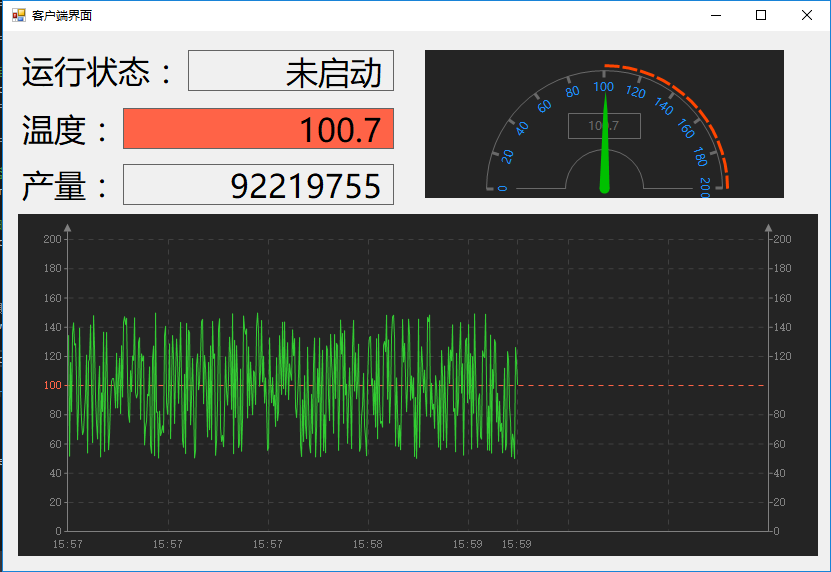
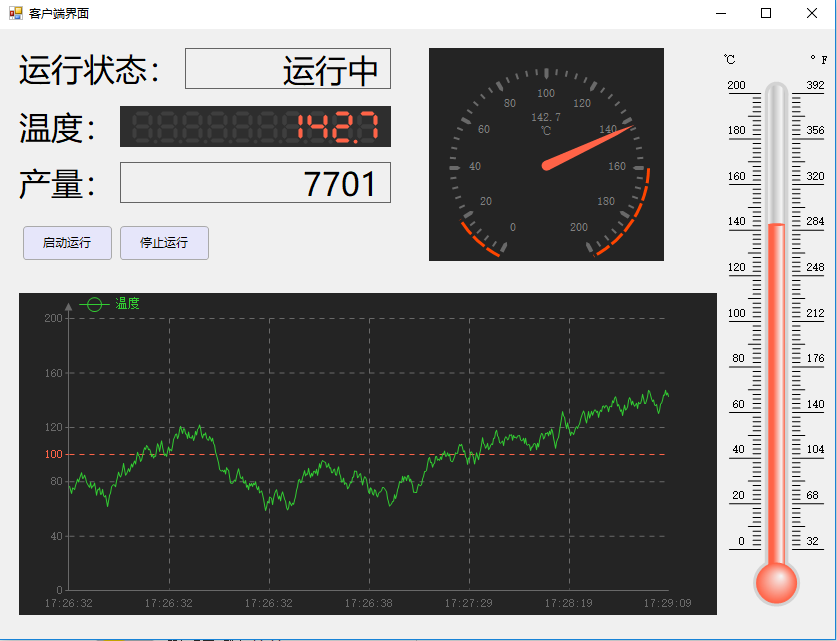
feat(nuget): 更新nuget包，升级控件组件。将作为hsl的进阶教程。

diff --git a/Client/FormClient.Designer.cs b/Client/FormClient.Designer.cs
@@ -32,12 +32,13 @@
             this.label6 = new System.Windows.Forms.Label();
             this.label3 = new System.Windows.Forms.Label();
             this.label4 = new System.Windows.Forms.Label();
-            this.label2 = new System.Windows.Forms.Label();
             this.label1 = new System.Windows.Forms.Label();
-            this.userCurve1 = new HslCommunication.Controls.UserCurve();
-            this.userGaugeChart1 = new HslCommunication.Controls.UserGaugeChart();
             this.userButton3 = new HslCommunication.Controls.UserButton();
             this.userButton2 = new HslCommunication.Controls.UserButton();
+            this.hslCurve1 = new HslControls.HslCurve();
+            this.hslGauge1 = new HslControls.HslGauge();
+            this.hslThermometer1 = new HslControls.HslThermometer();
+            this.hslLedDisplay1 = new HslControls.HslLedDisplay();
             this.SuspendLayout();
             // 
             // label5
@@ -82,17 +83,6 @@
             this.label4.TabIndex = 10;
             this.label4.Text = "产量：";
             // 
-            // label2
-            // 
-            this.label2.BorderStyle = System.Windows.Forms.BorderStyle.FixedSingle;
-            this.label2.Font = new System.Drawing.Font("微软雅黑", 24F, System.Drawing.FontStyle.Regular, System.Drawing.GraphicsUnit.Point, ((byte)(134)));
-            this.label2.Location = new System.Drawing.Point(120, 77);
-            this.label2.Name = "label2";
-            this.label2.Size = new System.Drawing.Size(271, 41);
-            this.label2.TabIndex = 9;
-            this.label2.Text = "0";
-            this.label2.TextAlign = System.Drawing.ContentAlignment.TopRight;
-            // 
             // label1
             // 
             this.label1.AutoSize = true;
@@ -103,40 +93,13 @@
             this.label1.TabIndex = 8;
             this.label1.Text = "温度：";
             // 
-            // userCurve1
-            // 
-            this.userCurve1.BackColor = System.Drawing.Color.FromArgb(((int)(((byte)(36)))), ((int)(((byte)(36)))), ((int)(((byte)(36)))));
-            this.userCurve1.ColorDashLines = System.Drawing.Color.FromArgb(((int)(((byte)(64)))), ((int)(((byte)(64)))), ((int)(((byte)(64)))));
-            this.userCurve1.ColorLinesAndText = System.Drawing.Color.Gray;
-            this.userCurve1.Location = new System.Drawing.Point(12, 256);
-            this.userCurve1.Name = "userCurve1";
-            this.userCurve1.Size = new System.Drawing.Size(800, 342);
-            this.userCurve1.TabIndex = 16;
-            this.userCurve1.ValueMaxLeft = 200F;
-            this.userCurve1.ValueMaxRight = 200F;
-            this.userCurve1.ValueSegment = 10;
-            // 
-            // userGaugeChart1
-            // 
-            this.userGaugeChart1.BackColor = System.Drawing.Color.FromArgb(((int)(((byte)(36)))), ((int)(((byte)(36)))), ((int)(((byte)(36)))));
-            this.userGaugeChart1.Font = new System.Drawing.Font("微软雅黑", 9F, System.Drawing.FontStyle.Regular, System.Drawing.GraphicsUnit.Point, ((byte)(134)));
-            this.userGaugeChart1.Location = new System.Drawing.Point(422, 19);
-            this.userGaugeChart1.Margin = new System.Windows.Forms.Padding(3, 4, 3, 4);
-            this.userGaugeChart1.Name = "userGaugeChart1";
-            this.userGaugeChart1.PointerColor = System.Drawing.Color.FromArgb(((int)(((byte)(0)))), ((int)(((byte)(192)))), ((int)(((byte)(0)))));
-            this.userGaugeChart1.Size = new System.Drawing.Size(359, 148);
-            this.userGaugeChart1.TabIndex = 17;
-            this.userGaugeChart1.ValueAlarmMax = 100D;
-            this.userGaugeChart1.ValueAlarmMin = 0D;
-            this.userGaugeChart1.ValueMax = 200D;
-            // 
             // userButton3
             // 
             this.userButton3.BackColor = System.Drawing.Color.Transparent;
             this.userButton3.CustomerInformation = "";
             this.userButton3.EnableColor = System.Drawing.Color.FromArgb(((int)(((byte)(190)))), ((int)(((byte)(190)))), ((int)(((byte)(190)))));
             this.userButton3.Font = new System.Drawing.Font("微软雅黑", 9F);
-            this.userButton3.Location = new System.Drawing.Point(107, 197);
+            this.userButton3.Location = new System.Drawing.Point(120, 197);
             this.userButton3.Margin = new System.Windows.Forms.Padding(3, 4, 3, 4);
             this.userButton3.Name = "userButton3";
             this.userButton3.Size = new System.Drawing.Size(89, 34);
@@ -150,7 +113,7 @@
             this.userButton2.CustomerInformation = "";
             this.userButton2.EnableColor = System.Drawing.Color.FromArgb(((int)(((byte)(190)))), ((int)(((byte)(190)))), ((int)(((byte)(190)))));
             this.userButton2.Font = new System.Drawing.Font("微软雅黑", 9F);
-            this.userButton2.Location = new System.Drawing.Point(12, 197);
+            this.userButton2.Location = new System.Drawing.Point(23, 197);
             this.userButton2.Margin = new System.Windows.Forms.Padding(3, 4, 3, 4);
             this.userButton2.Name = "userButton2";
             this.userButton2.Size = new System.Drawing.Size(89, 34);
@@ -158,20 +121,69 @@
             this.userButton2.UIText = "启动运行";
             this.userButton2.Click += new System.EventHandler(this.userButton2_Click);
             // 
+            // hslCurve1
+            // 
+            this.hslCurve1.BackColor = System.Drawing.Color.FromArgb(((int)(((byte)(36)))), ((int)(((byte)(36)))), ((int)(((byte)(36)))));
+            this.hslCurve1.IsRenderRightCoordinate = false;
+            this.hslCurve1.Location = new System.Drawing.Point(19, 264);
+            this.hslCurve1.Name = "hslCurve1";
+            this.hslCurve1.Size = new System.Drawing.Size(699, 322);
+            this.hslCurve1.TabIndex = 20;
+            this.hslCurve1.TextAddFormat = "HH:mm:ss";
+            this.hslCurve1.ValueMaxLeft = 200F;
+            this.hslCurve1.ValueMaxRight = 200F;
+            // 
+            // hslGauge1
+            // 
+            this.hslGauge1.BackColor = System.Drawing.Color.FromArgb(((int)(((byte)(36)))), ((int)(((byte)(36)))), ((int)(((byte)(36)))));
+            this.hslGauge1.ForeColor = System.Drawing.Color.Gray;
+            this.hslGauge1.IsBigSemiCircle = true;
+            this.hslGauge1.Location = new System.Drawing.Point(429, 19);
+            this.hslGauge1.Name = "hslGauge1";
+            this.hslGauge1.Size = new System.Drawing.Size(235, 213);
+            this.hslGauge1.TabIndex = 21;
+            this.hslGauge1.UnitText = "℃";
+            this.hslGauge1.ValueAlarmMax = 160F;
+            this.hslGauge1.ValueMax = 200F;
+            // 
+            // hslThermometer1
+            // 
+            this.hslThermometer1.Location = new System.Drawing.Point(717, 12);
+            this.hslThermometer1.Name = "hslThermometer1";
+            this.hslThermometer1.SegmentCount = 10;
+            this.hslThermometer1.Size = new System.Drawing.Size(118, 585);
+            this.hslThermometer1.TabIndex = 22;
+            this.hslThermometer1.TemperatureBackColor = System.Drawing.Color.LightGray;
+            this.hslThermometer1.ValueMax = 200F;
+            this.hslThermometer1.ValueStart = 0F;
+            // 
+            // hslLedDisplay1
+            // 
+            this.hslLedDisplay1.BackColor = System.Drawing.Color.FromArgb(((int)(((byte)(46)))), ((int)(((byte)(46)))), ((int)(((byte)(46)))));
+            this.hslLedDisplay1.DisplayBackColor = System.Drawing.Color.FromArgb(((int)(((byte)(62)))), ((int)(((byte)(62)))), ((int)(((byte)(62)))));
+            this.hslLedDisplay1.DisplayNumber = 10;
+            this.hslLedDisplay1.DisplayText = "0";
+            this.hslLedDisplay1.LedNumberSize = 4;
+            this.hslLedDisplay1.Location = new System.Drawing.Point(120, 77);
+            this.hslLedDisplay1.Name = "hslLedDisplay1";
+            this.hslLedDisplay1.Size = new System.Drawing.Size(271, 41);
+            this.hslLedDisplay1.TabIndex = 23;
+            // 
             // FormClient
             // 
             this.AutoScaleDimensions = new System.Drawing.SizeF(6F, 12F);
             this.AutoScaleMode = System.Windows.Forms.AutoScaleMode.Font;
             this.ClientSize = new System.Drawing.Size(835, 610);
+            this.Controls.Add(this.hslLedDisplay1);
+            this.Controls.Add(this.hslThermometer1);
+            this.Controls.Add(this.hslGauge1);
+            this.Controls.Add(this.hslCurve1);
             this.Controls.Add(this.userButton3);
             this.Controls.Add(this.userButton2);
-            this.Controls.Add(this.userGaugeChart1);
-            this.Controls.Add(this.userCurve1);
             this.Controls.Add(this.label5);
             this.Controls.Add(this.label6);
             this.Controls.Add(this.label3);
             this.Controls.Add(this.label4);
-            this.Controls.Add(this.label2);
             this.Controls.Add(this.label1);
             this.Name = "FormClient";
             this.Text = "客户端界面";
@@ -188,12 +200,13 @@
         private System.Windows.Forms.Label label6;
         private System.Windows.Forms.Label label3;
         private System.Windows.Forms.Label label4;
-        private System.Windows.Forms.Label label2;
         private System.Windows.Forms.Label label1;
-        private HslCommunication.Controls.UserCurve userCurve1;
-        private HslCommunication.Controls.UserGaugeChart userGaugeChart1;
         private HslCommunication.Controls.UserButton userButton3;
         private HslCommunication.Controls.UserButton userButton2;
+        private HslControls.HslCurve hslCurve1;
+        private HslControls.HslGauge hslGauge1;
+        private HslControls.HslThermometer hslThermometer1;
+        private HslControls.HslLedDisplay hslLedDisplay1;
     }
 }
 

diff --git a/PlcReadTest/FormServer.cs b/PlcReadTest/FormServer.cs
@@ -257,9 +257,9 @@ namespace PlcReadTest
         private void SiemensTcpNetInitialization( )
         {
             siemensTcpNet = new SiemensS7Net( SiemensPLCS.S1200 );                          // 实例化西门子的对象
-            siemensTcpNet.IpAddress = "192.168.1.195";                                     // 设置IP地址
-            siemensTcpNet.LogNet = LogNet;                                                 // 设置统一的日志记录器
-            siemensTcpNet.ConnectTimeOut = 1000;                                           // 超时时间为1秒
+            siemensTcpNet.IpAddress = "192.168.8.12";                                       // 设置IP地址
+            siemensTcpNet.LogNet = LogNet;                                                  // 设置统一的日志记录器
+            siemensTcpNet.ConnectTimeOut = 1000;                                            // 超时时间为1秒
 
             // 启动后台读取的线程
             threadReadPlc = new Thread( new System.Threading.ThreadStart( ThreadBackgroundReadPlc ) );
@@ -284,6 +284,7 @@ namespace PlcReadTest
              * 
              **************************************************************************************************/
 
+            double temperature = 100f;
 
             while (true)
             {
@@ -299,14 +300,17 @@ namespace PlcReadTest
 
                     if (isReadRandom)
                     {
+                        temperature = Math.Round( temperature + random.Next( 100 ) / 10f - 5f, 1 );
+                        if (temperature < 0 || temperature > 200) temperature = 100;
+
                         // 当没有测试的设备的时候，此处就演示读取随机数的情况
                         read = HslCommunication.OperateResult.CreateSuccessResult( new JObject( )
                         {
-                            {"temp",new JValue(random.Next(2000)/10d) },
+                            {"temp",new JValue(temperature) },
                             {"enable",new JValue(random.Next(100)>10) },
                             {"product",new JValue(random.Next(10000)) }
                         } );
-                }
+                    }
                     else
                     {
                         HslCommunication.OperateResult<byte[]> tmp = siemensTcpNet.Read( "M100", 7 );
@@ -484,6 +488,7 @@ namespace PlcReadTest
             }
 
             textBox1.AppendText( GetStringFromLogMessage( e ) + Environment.NewLine );
+            e.HslMessage.Cancel = true; // 取消保存
         }
 
         private string GetStringFromLogMessage( HslEventArgs e )

diff --git a/Client/FormClient.cs b/Client/FormClient.cs
@@ -23,8 +23,8 @@ namespace Client
         {
             NetComplexInitialization();
 
-            userCurve1.SetLeftCurve( "A", new float[0], Color.LimeGreen );  // 新增一条实时曲线
-            userCurve1.AddLeftAuxiliary( 100, Color.Tomato );               // 新增一条100度的辅助线
+            hslCurve1.SetLeftCurve( "温度", new float[0], Color.LimeGreen );   // 新增一条实时曲线
+            hslCurve1.AddLeftAuxiliary( 100, Color.Tomato );                // 新增一条100度的辅助线
 
             pushClient.CreatePush( PushCallBack );                          // 创建数据订阅器
         }
@@ -106,19 +106,22 @@ namespace Client
             int product = content["product"].ToObject<int>( );            // 产量数据
            
 
-            label2.Text = temp1.ToString();
+            hslLedDisplay1.DisplayText = temp1.ToString();
 
             // 如果温度超100℃就把背景改为红色
-            label2.BackColor = temp1 > 100d ? Color.Tomato : Color.Transparent;
+            hslLedDisplay1.ForeColor = temp1 > 100d ? Color.Tomato : Color.Lime;
             label3.Text = product.ToString();
 
             label5.Text = machineEnable ? "运行中" : "未启动";
 
             // 添加仪表盘显示
-            userGaugeChart1.Value = Math.Round( temp1, 1 );
+            hslGauge1.Value = (float)Math.Round( temp1, 1 );
+
+            // 添加温度控件显示
+            hslThermometer1.Value = (float)Math.Round( temp1, 1 );
 
             // 添加实时的数据曲线
-            userCurve1.AddCurveData( "A", (float)temp1 );
+            hslCurve1.AddCurveData( "温度", (float)temp1 );
         }
         
         
@@ -136,7 +139,7 @@ namespace Client
                 value[i] = BitConverter.ToSingle( content, i * 4 );
             }
 
-            userCurve1.AddCurveData( "A", value );
+            hslCurve1.AddCurveData( "温度", value );
 
         }
 

diff --git a/README.md b/README.md
@@ -1,7 +1,7 @@
 # RemoteMonitor
 本项目是一个利用HslCommunication组件读取PLC的示例项目，演示了后台从PLC循环读取到前台显示，并推送给在线客户端，客户端同步显示并画实时曲线图。
 
-[![NetFramework](https://img.shields.io/badge/Language-C%23%207.0-orange.svg)](https://blogs.msdn.microsoft.com/dotnet/2016/08/24/whats-new-in-csharp-7-0/) [![Visual Studio](https://img.shields.io/badge/Visual%20Studio-2017-red.svg)](https://www.visualstudio.com/zh-hans/) ![License status](https://img.shields.io/badge/License-MIT-yellow.svg)
+[![NetFramework](https://img.shields.io/badge/Language-C%23%207.0-orange.svg)](https://blogs.msdn.microsoft.com/dotnet/2016/08/24/whats-new-in-csharp-7-0/) [![Visual Studio](https://img.shields.io/badge/Visual%20Studio-2019-red.svg)](https://www.visualstudio.com/zh-hans/) ![License status](https://img.shields.io/badge/License-MIT-yellow.svg)
 
 ![Android Studio](https://img.shields.io/badge/Android%20Studio-3.1-red.svg)
 
